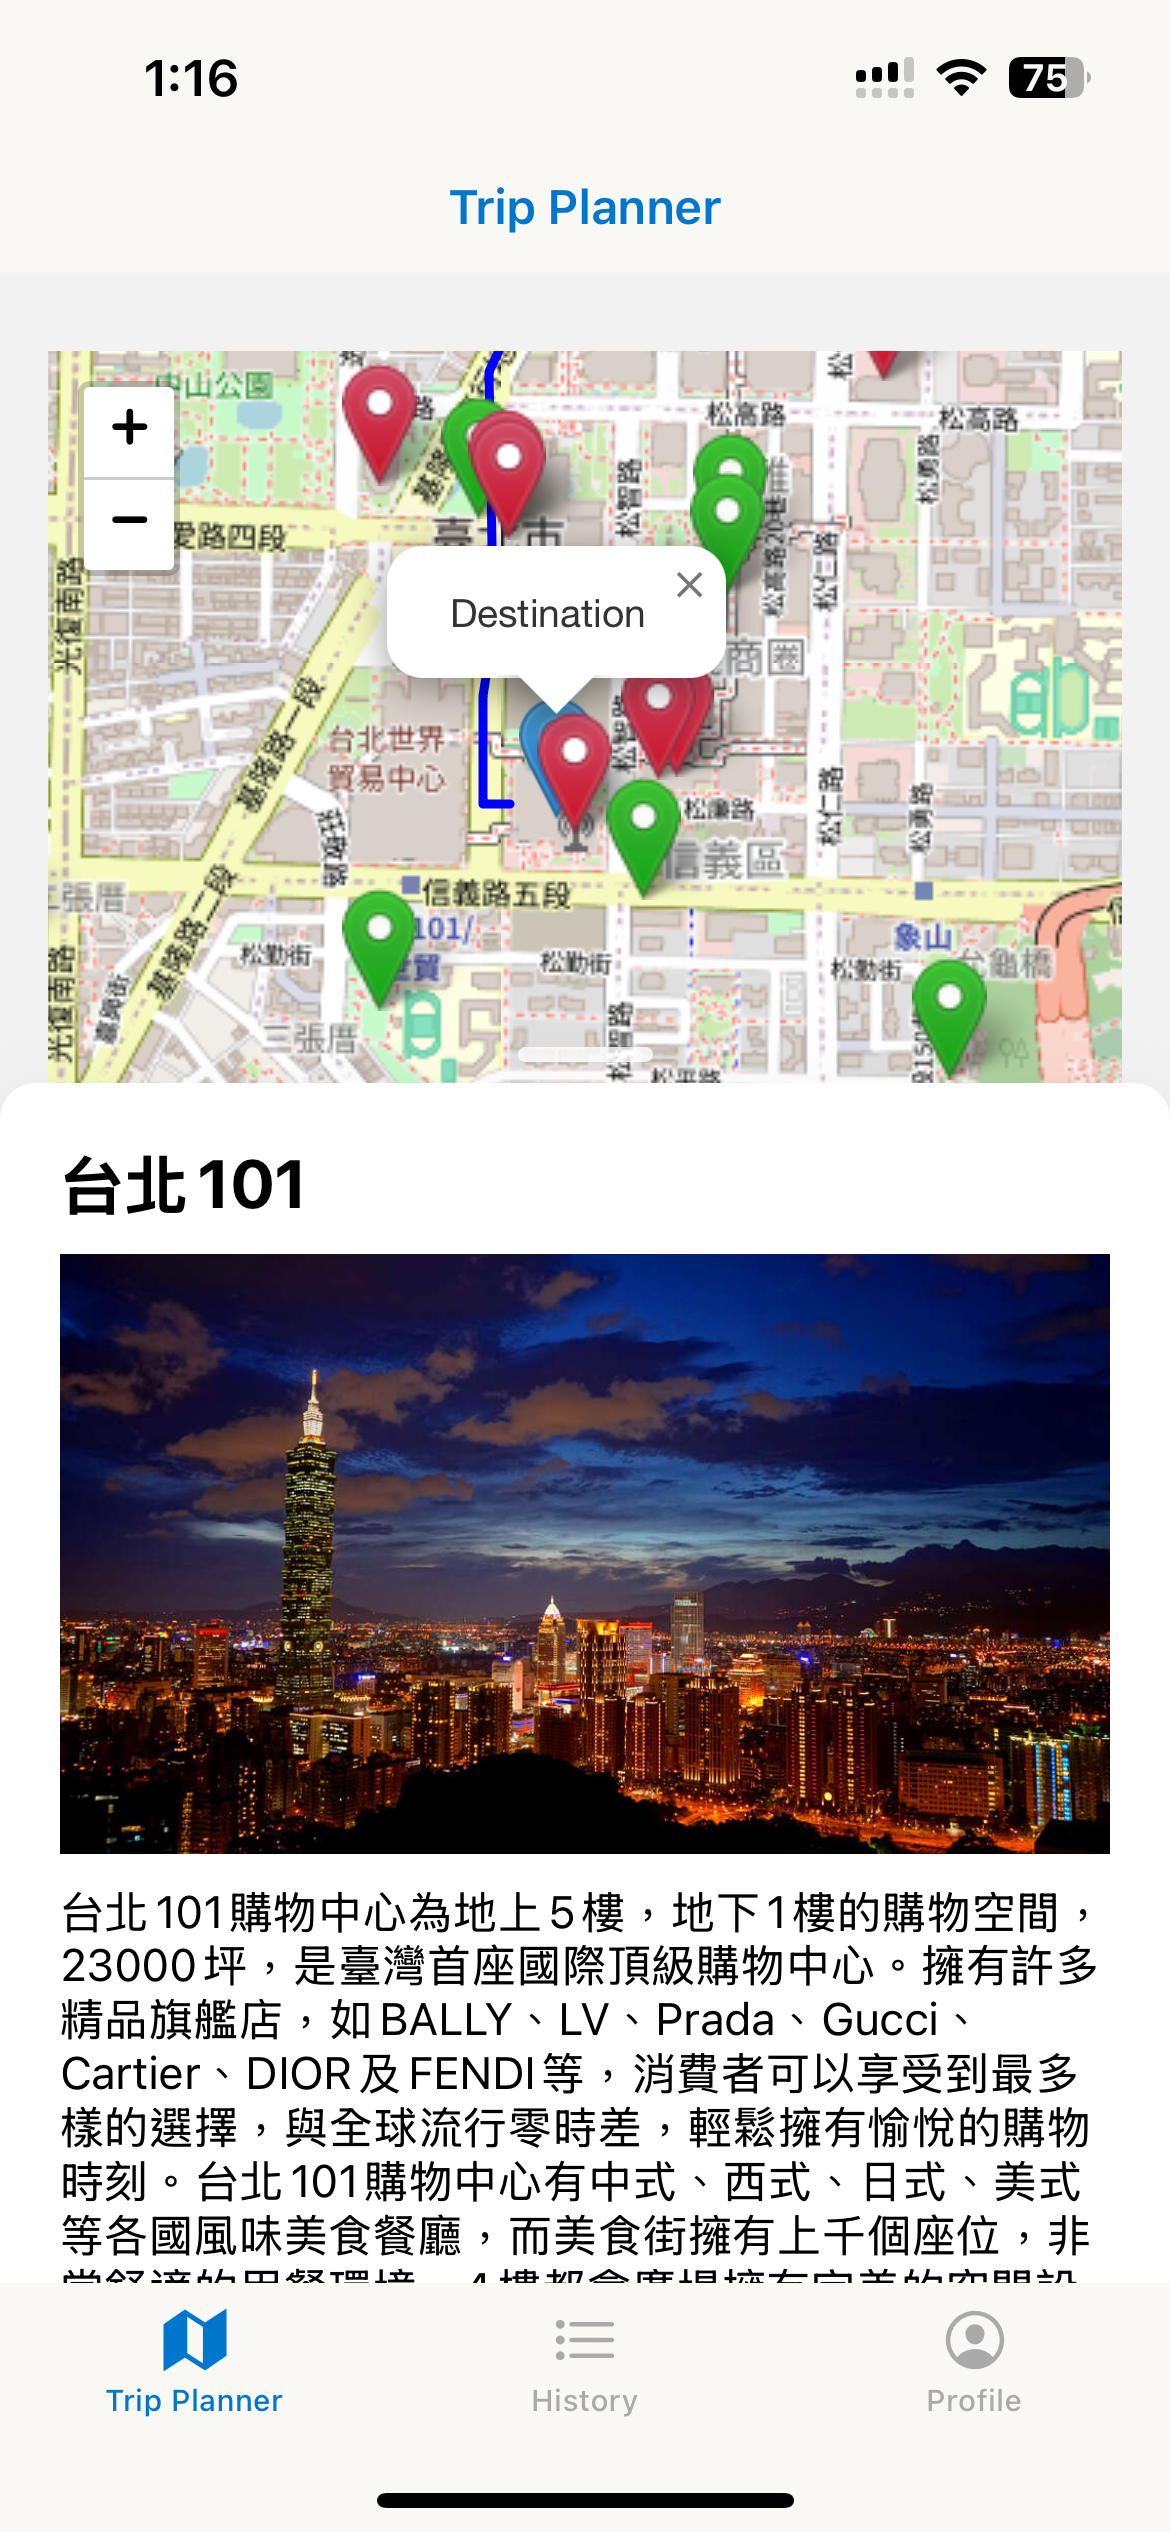
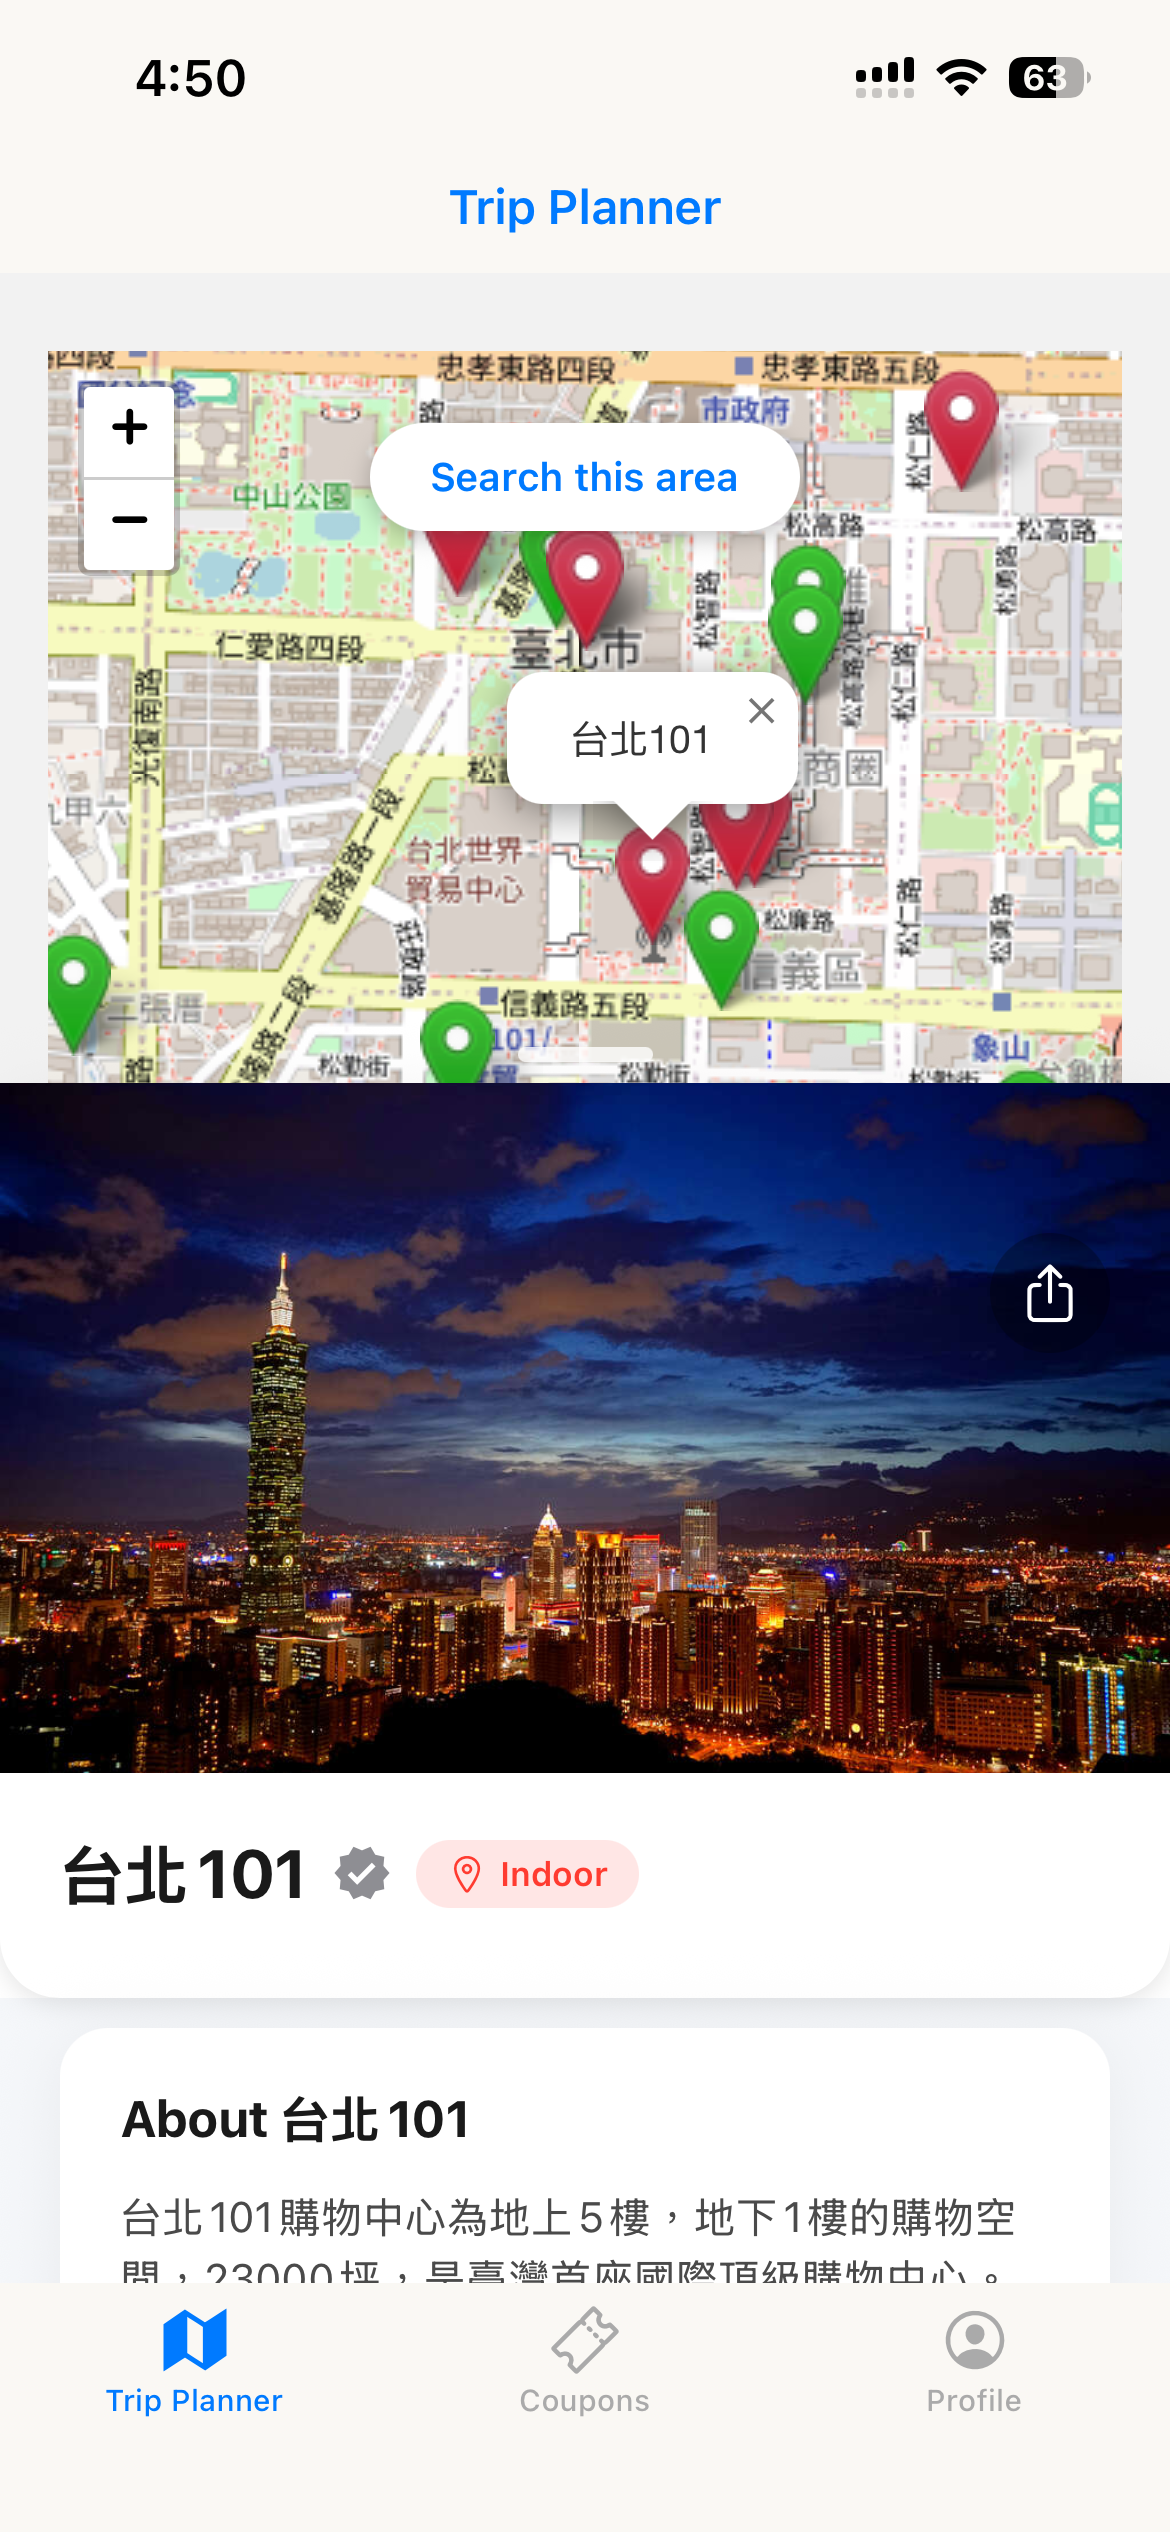
🚧 Update trip planning page screenshot and text

diff --git a/src/components/TripPlanner/ScreenshotsSection.js b/src/components/TripPlanner/ScreenshotsSection.js
@@ -2,13 +2,13 @@ import React, { act } from 'react';
 import { Calendar, Clock, MapPin, Sun, Route, MapPinned, CloudSun, Info } from 'lucide-react';
 import AttractionList from '../../assets/images/TripPlanner/AttractionList.png';
 import AttractionDetail from '../../assets/images/TripPlanner/AttractionDetail.png';
-import TripPlannerForm from '../../assets/images/TripPlanner/TripPlannerForm.png';
+import CityDistrictSelection from '../../assets/images/TripPlanner/CityDistrictSelection.png';
 
 import { useTranslation } from 'react-i18next';
 
 const ScreenshotsSection = ({
-  activeView,
-  setActiveView,
+    activeView,
+    setActiveView,
 }) => {
     const { t } = useTranslation();
     return (
@@ -22,44 +22,42 @@ const ScreenshotsSection = ({
                         {t('tripPlanner.screenshots.subtitle')}
                     </p>
                 </div>
-                
+
                 <div className="grid grid-cols-1 lg:grid-cols-2 gap-8">
                     {/* Left Side - View Options */}
                     <div className="space-y-4">
-                        <div 
-                            onClick={() => setActiveView('TripPlannerForm')}
-                            className={`p-6 rounded-xl cursor-pointer transition-all transform hover:scale-105 ${
-                                activeView === 'TripPlannerForm' 
-                                    ? 'bg-blue-600 text-white shadow-xl' 
-                                    : 'bg-gray-50 hover:bg-gray-100 text-gray-900'
-                            }`}
+                        <div
+                            onClick={() => setActiveView('CityDistrictSelection')}
+                            className={`p-6 rounded-xl cursor-pointer transition-all transform hover:scale-105 ${activeView === 'CityDistrictSelection'
+                                ? 'bg-blue-600 text-white shadow-xl'
+                                : 'bg-gray-50 hover:bg-gray-100 text-gray-900'
+                                }`}
                         >
                             <div className="flex items-center mb-3">
-                                <Route className={`mr-3 ${activeView === 'TripPlannerForm' ? 'text-white' : 'text-blue-600'}`} size={32} />
-                                <h3 className="text-xl font-bold">{t('tripPlanner.screenshots.TripPlannerFormView')}</h3>
+                                <Route className={`mr-3 ${activeView === 'CityDistrictSelection' ? 'text-white' : 'text-blue-600'}`} size={32} />
+                                <h3 className="text-xl font-bold">{t('tripPlanner.screenshots.CityDistrictSelectionView')}</h3>
                             </div>
-                            <p className={`${activeView === 'TripPlannerForm' ? 'text-blue-100' : 'text-gray-600'}`}>
-                                {t('tripPlanner.screenshots.TripPlannerFormDesc')}
+                            <p className={`${activeView === 'CityDistrictSelection' ? 'text-blue-100' : 'text-gray-600'}`}>
+                                {t('tripPlanner.screenshots.CityDistrictSelectionDesc')}
                             </p>
                             <div className="mt-4 flex items-center space-x-4 text-sm">
                                 <div className="flex items-center">
-                                    <MapPin className={`mr-1 ${activeView === 'TripPlannerForm' ? 'text-blue-200' : 'text-gray-400'}`} size={16} />
-                                    <span className={`${activeView === 'TripPlannerForm' ? 'text-blue-100' : 'text-gray-500'}`}>{t('tripPlanner.screenshots.address')}</span>
+                                    <MapPin className={`mr-1 ${activeView === 'CityDistrictSelection' ? 'text-blue-200' : 'text-gray-400'}`} size={16} />
+                                    <span className={`${activeView === 'CityDistrictSelection' ? 'text-blue-100' : 'text-gray-500'}`}>{t('tripPlanner.screenshots.location')}</span>
                                 </div>
                                 <div className="flex items-center">
-                                    <Clock className={`mr-1 ${activeView === 'TripPlannerForm' ? 'text-blue-200' : 'text-gray-400'}`} size={16} />
-                                    <span className={`${activeView === 'TripPlannerForm' ? 'text-blue-100' : 'text-gray-500'}`}>{t('tripPlanner.screenshots.departureTime')}</span>
+                                    <CloudSun className={`mr-1 ${activeView === 'CityDistrictSelection' ? 'text-blue-200' : 'text-gray-400'}`} size={16} />
+                                    <span className={`${activeView === 'CityDistrictSelection' ? 'text-blue-100' : 'text-gray-500'}`}>{t('tripPlanner.screenshots.weather')}</span>
                                 </div>
                             </div>
                         </div>
-                        
-                        <div 
+
+                        <div
                             onClick={() => setActiveView('AttractionList')}
-                            className={`p-6 rounded-xl cursor-pointer transition-all transform hover:scale-105 ${
-                                activeView === 'AttractionList' 
-                                    ? 'bg-blue-600 text-white shadow-xl' 
-                                    : 'bg-gray-50 hover:bg-gray-100 text-gray-900'
-                            }`}
+                            className={`p-6 rounded-xl cursor-pointer transition-all transform hover:scale-105 ${activeView === 'AttractionList'
+                                ? 'bg-blue-600 text-white shadow-xl'
+                                : 'bg-gray-50 hover:bg-gray-100 text-gray-900'
+                                }`}
                         >
                             <div className="flex items-center mb-3">
                                 <CloudSun className={`mr-3 ${activeView === 'AttractionList' ? 'text-white' : 'text-blue-600'}`} size={32} />
@@ -78,13 +76,12 @@ const ScreenshotsSection = ({
                             </div>
                         </div>
 
-                        <div 
+                        <div
                             onClick={() => setActiveView('AttractionDetail')}
-                            className={`p-6 rounded-xl cursor-pointer transition-all transform hover:scale-105 ${
-                                activeView === 'AttractionDetail' 
-                                    ? 'bg-blue-600 text-white shadow-xl' 
-                                    : 'bg-gray-50 hover:bg-gray-100 text-gray-900'
-                            }`}
+                            className={`p-6 rounded-xl cursor-pointer transition-all transform hover:scale-105 ${activeView === 'AttractionDetail'
+                                ? 'bg-blue-600 text-white shadow-xl'
+                                : 'bg-gray-50 hover:bg-gray-100 text-gray-900'
+                                }`}
                         >
                             <div className="flex items-center mb-3">
                                 <MapPinned className={`mr-3 ${activeView === 'AttractionDetail' ? 'text-white' : 'text-blue-600'}`} size={32} />
@@ -103,33 +100,33 @@ const ScreenshotsSection = ({
                                     <span className={`${activeView === 'AttractionDetail' ? 'text-blue-100' : 'text-gray-500'}`}>{t('tripPlanner.screenshots.info')}</span>
                                 </div>
                             </div>
-                        </div>                        
+                        </div>
                     </div>
-                    
+
                     {/* Right Side - Screenshot Display */}
                     <div className="flex justify-center items-center">
                         <div className="w-full max-w-md flex justify-center">
-                            { activeView === 'TripPlannerForm' && (
+                            {activeView === 'CityDistrictSelection' && (
                                 <img
-                                    src={TripPlannerForm}
-                                    alt="Trip Planner Form Screenshot"
+                                    src={CityDistrictSelection}
+                                    alt="City District Selection Screenshot"
                                     className="rounded-xl shadow-lg w-2/3"
                                 />
                             )}
-                            { activeView === 'AttractionList' && (
+                            {activeView === 'AttractionList' && (
                                 <img
                                     src={AttractionList}
                                     alt="Attraction List View Screenshot"
                                     className="rounded-xl shadow-lg w-2/3"
                                 />
-                            )}           
-                            { activeView === 'AttractionDetail' && (
+                            )}
+                            {activeView === 'AttractionDetail' && (
                                 <img
                                     src={AttractionDetail}
                                     alt="Map View Screenshot"
                                     className="rounded-xl shadow-lg w-2/3"
                                 />
-                            )}                                                        
+                            )}
                         </div>
                     </div>
                 </div>
